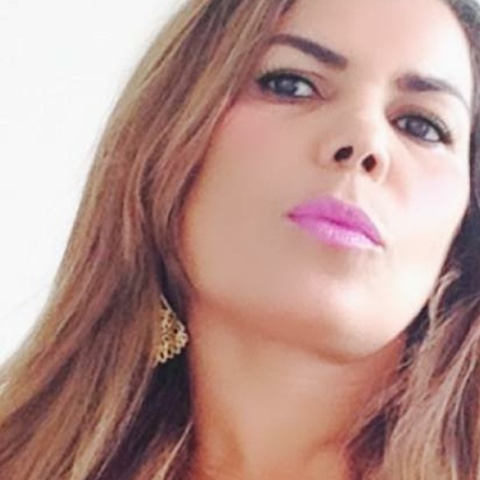
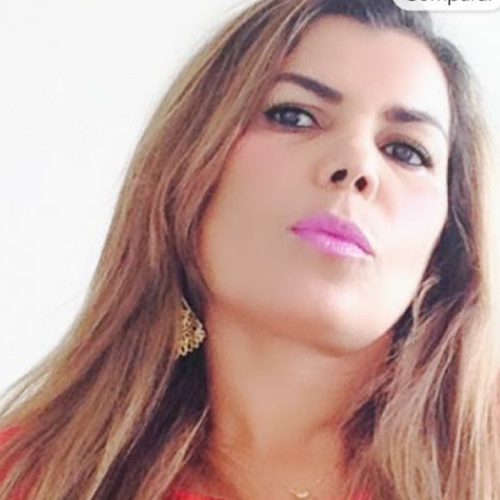
fix(avaliacoes): substitui Larauine por Fabiane Almeida com foto real, reduz zoom mantendo remocao de bordas pretas e limita comentarios ao primeiro ponto

diff --git a/data/home.ts b/data/home.ts
@@ -115,42 +115,42 @@ export const testimonials = [
   {
     name: "João Paulo Tenório",
     quote:
-      "Maravilhoso! O passeio é extremamente agradável e cumpre o que é prometido, exclusividade e tranquilidade. O marinheiro foi super gentil e atencioso. Voltarei com certeza.",
+      "O passeio é extremamente agradável e cumpre o que é prometido, exclusividade e tranquilidade.",
     image: "/images/testimonials/joao-paulo-tenorio.jpg",
     rating: 5
   },
   {
     name: "Juliana Oliveira",
     quote:
-      "Eu já conhecia o serviço através de um passeio coletivo e me encantei com a organização e disponibilidade. Desta vez fizemos um passeio privativo e foi perfeito!",
+      "Eu já conhecia o serviço através de um passeio coletivo e me encantei com a organização e disponibilidade.",
     image: "/images/testimonials/juliana-oliveira.jpg",
     rating: 5
   },
   {
-    name: "Larauine Almeida",
+    name: "Fabiane Almeida",
     quote:
-      "Minhas experiências foram maravilhosas! Equipe sensacional! Já comemorei 2 aniversários com eles e ano que vem tem mais! São muito receptivos e os roteiros são incríveis!",
-    image: "/images/testimonials/larauine-almeida.jpg",
+      "O passeio foi divertido, a lancha completa, o atendimento muito bom e marinheiro atencioso e experiente.",
+    image: "/images/testimonials/fabiane-almeida.jpg",
     rating: 5
   },
   {
     name: "Rogério Sá",
     quote:
-      "Passeio incrível! Equipe muito profissional e gentil! Recomendo e voltarei em breve!",
+      "Passeio incrível, equipe muito profissional e gentil.",
     image: "/images/testimonials/rogerio-sa.jpg",
     rating: 5
   },
   {
     name: "Marcia Santos",
     quote:
-      "Foi uma experiência maravilhosa, tudo perfeito! O marinheiro foi educado, gentil e atencioso. Excelente indicação de restaurante para o almoço. Super indico!",
+      "Foi uma experiência maravilhosa, tudo perfeito, com marinheiro educado, gentil e atencioso.",
     image: "/images/testimonials/marcia-santos.jpg",
     rating: 5
   },
   {
     name: "Rai Mançú",
     quote:
-      "O passeio com o Entre Ilhas foi maravilhoso. Um dia diferente em família com um roteiro lindo. Jana e Felipe são receptivos, atenciosos e têm comunicação clara. Indico de olhos fechados.",
+      "O passeio com o Entre Ilhas foi maravilhoso, um dia diferente em família com um roteiro lindo.",
     image: "/images/testimonials/rai-mancu.jpg",
     rating: 5
   }

diff --git a/components/home/home-landing.tsx b/components/home/home-landing.tsx
@@ -717,7 +717,7 @@ function TestimonialSlider() {
                       alt={testimonial.name}
                       fill
                       sizes="(max-width: 768px) 100vw, 30vw"
-                      className="object-cover scale-[1.25] transition-transform duration-300"
+                      className="object-cover scale-[1.03] transition-transform duration-300"
                       draggable={false}
                     />
                   </div>
